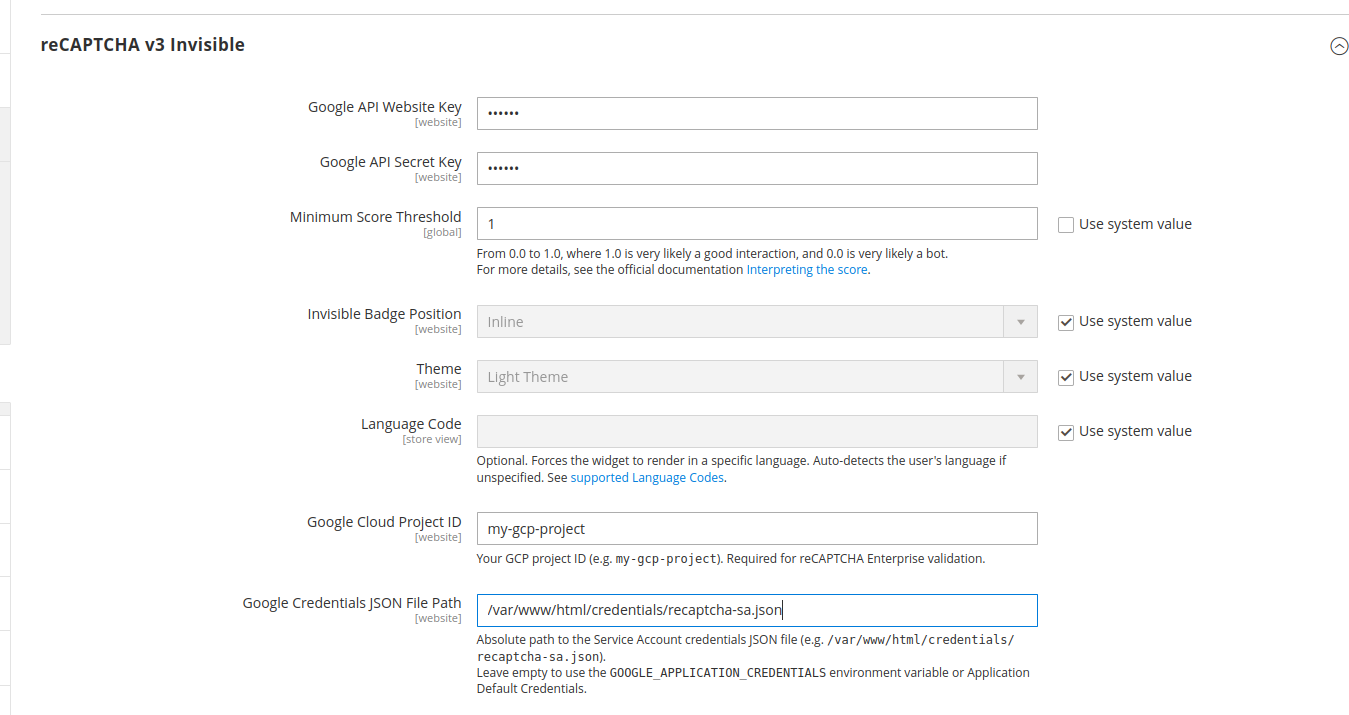
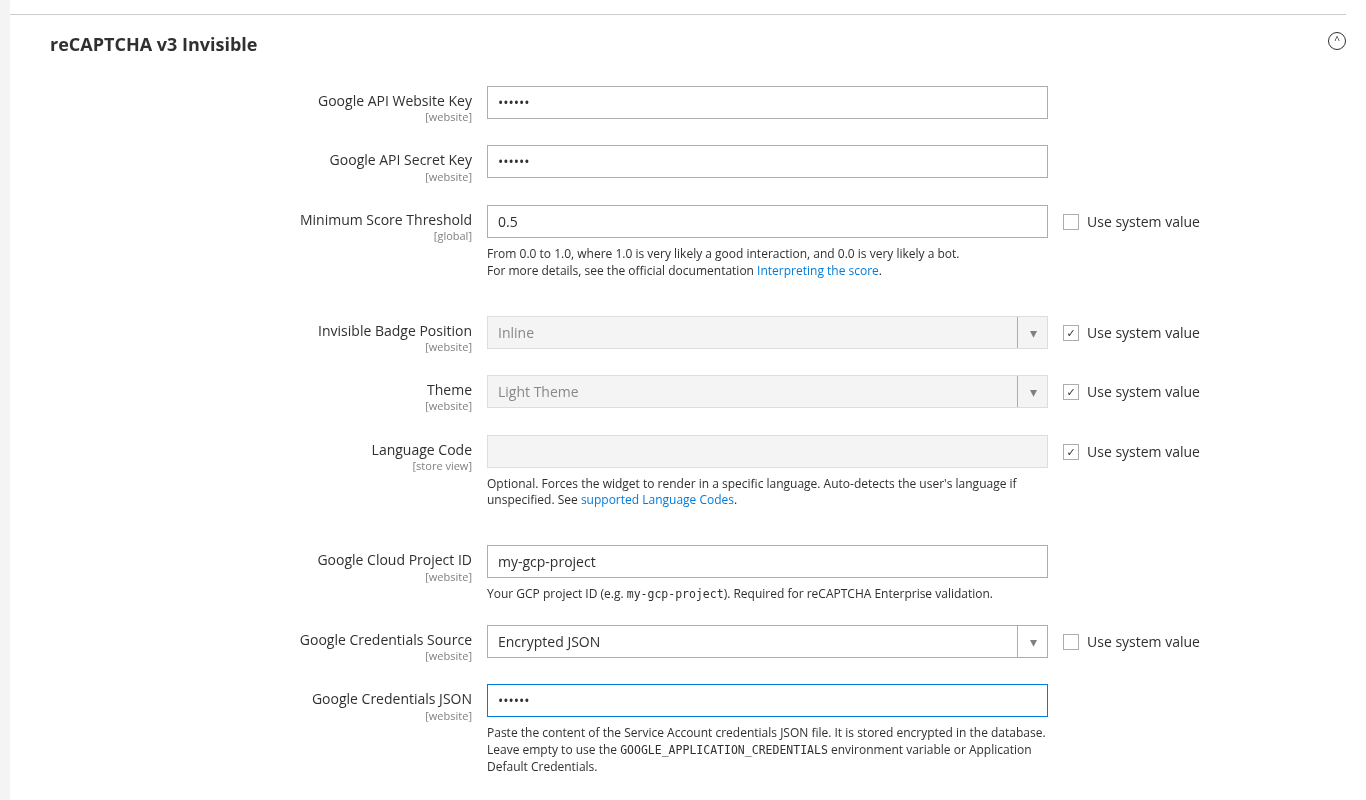
Version 1.1.0 add encrypted JSON credentials source
- Add "Google Credentials Source" setting: file path on server (default) or encrypted JSON
- Store the Service Account JSON encrypted in the database, validated on save and flagged as sensitive
- Replace EnterpriseConfig::getCredentialsFile() with getCredentials()
- Add magento/module-config dependency, CHANGELOG and updated docs

diff --git a/Model/Config/EnterpriseConfig.php b/Model/Config/EnterpriseConfig.php
@@ -4,17 +4,22 @@ declare(strict_types=1);
 
 namespace Lohoy\ReCaptchaEnterprise\Model\Config;
 
+use Lohoy\ReCaptchaEnterprise\Model\Config\Source\CredentialsSource;
 use Magento\Framework\App\Config\ScopeConfigInterface;
+use Magento\Framework\Encryption\EncryptorInterface;
 use Magento\Store\Model\ScopeInterface;
 
 class EnterpriseConfig
 {
     private const XML_PATH_PROJECT_ID        = 'recaptcha_frontend/type_recaptcha_v3/google_project_id';
+    private const XML_PATH_CREDENTIALS_SOURCE = 'recaptcha_frontend/type_recaptcha_v3/google_credentials_source';
     private const XML_PATH_CREDENTIALS_FILE  = 'recaptcha_frontend/type_recaptcha_v3/google_credentials_file';
+    private const XML_PATH_CREDENTIALS_JSON  = 'recaptcha_frontend/type_recaptcha_v3/google_credentials_json';
     private const XML_PATH_PUBLIC_KEY        = 'recaptcha_frontend/type_recaptcha_v3/public_key';
 
     public function __construct(
-        private readonly ScopeConfigInterface $scopeConfig
+        private readonly ScopeConfigInterface $scopeConfig,
+        private readonly EncryptorInterface   $encryptor
     ) {}
 
     /**
@@ -28,17 +33,28 @@ class EnterpriseConfig
     }
 
     /**
-     * Returns the path to the GCP credentials JSON file.
+     * Returns the GCP credentials: decoded JSON array, or path to the JSON file.
      * Falls back to the GOOGLE_APPLICATION_CREDENTIALS env var if empty.
+     *
+     * @throws \JsonException if the stored JSON cannot be decoded
      */
-    public function getCredentialsFile(): string
+    public function getCredentials(): array|string
     {
-        $configValue = trim(
-            (string) $this->scopeConfig->getValue(self::XML_PATH_CREDENTIALS_FILE, ScopeInterface::SCOPE_WEBSITE)
-        );
+        $source = $this->scopeConfig->getValue(self::XML_PATH_CREDENTIALS_SOURCE, ScopeInterface::SCOPE_WEBSITE);
 
-        if ($configValue !== '') {
-            return $configValue;
+        if ($source === CredentialsSource::JSON) {
+            $encrypted = (string) $this->scopeConfig->getValue(self::XML_PATH_CREDENTIALS_JSON, ScopeInterface::SCOPE_WEBSITE);
+            $json = trim($this->encryptor->decrypt($encrypted));
+            if ($json !== '') {
+                return json_decode($json, true, 512, JSON_THROW_ON_ERROR);
+            }
+        } else {
+            $configValue = trim(
+                (string) $this->scopeConfig->getValue(self::XML_PATH_CREDENTIALS_FILE, ScopeInterface::SCOPE_WEBSITE)
+            );
+            if ($configValue !== '') {
+                return $configValue;
+            }
         }
 
         return (string) (getenv('GOOGLE_APPLICATION_CREDENTIALS') ?: '');

diff --git a/Model/Config/Backend/CredentialsJson.php b/Model/Config/Backend/CredentialsJson.php
@@ -1,0 +1,26 @@
+<?php
+
+declare(strict_types=1);
+
+namespace Lohoy\ReCaptchaEnterprise\Model\Config\Backend;
+
+use Magento\Config\Model\Config\Backend\Encrypted;
+use Magento\Framework\Exception\LocalizedException;
+
+/**
+ * Stores the Service Account JSON encrypted, rejecting invalid JSON so a typo can't break every protected form.
+ */
+class CredentialsJson extends Encrypted
+{
+    public function beforeSave()
+    {
+        $value = trim((string) $this->getValue());
+
+        // '******' is the obscured placeholder: the stored value is kept as is
+        if ($value !== '' && !preg_match('/^\*+$/', $value) && !is_array(json_decode($value, true))) {
+            throw new LocalizedException(__('Google Credentials JSON is not a valid JSON document.'));
+        }
+
+        return parent::beforeSave();
+    }
+}

diff --git a/Model/EnterpriseValidator.php b/Model/EnterpriseValidator.php
@@ -47,13 +47,13 @@ class EnterpriseValidator implements ValidatorInterface
             ]);
         }
 
-        $clientOptions = [];
-        $credentialsFile = $this->enterpriseConfig->getCredentialsFile();
-        if ($credentialsFile !== '') {
-            $clientOptions['credentials'] = $credentialsFile;
-        }
-
         try {
+            $clientOptions = [];
+            $credentials = $this->enterpriseConfig->getCredentials();
+            if ($credentials !== '') {
+                $clientOptions['credentials'] = $credentials;
+            }
+
             $client = new RecaptchaEnterpriseServiceClient($clientOptions);
         } catch (\Exception $e) {
             $this->logger->critical('[RecaptchaEnterprise] Failed to create client: ' . $e->getMessage());

diff --git a/Model/Config/Source/CredentialsSource.php b/Model/Config/Source/CredentialsSource.php
@@ -1,0 +1,21 @@
+<?php
+
+declare(strict_types=1);
+
+namespace Lohoy\ReCaptchaEnterprise\Model\Config\Source;
+
+use Magento\Framework\Data\OptionSourceInterface;
+
+class CredentialsSource implements OptionSourceInterface
+{
+    public const PATH   = 'path';
+    public const JSON   = 'json';
+
+    public function toOptionArray(): array
+    {
+        return [
+            ['value' => self::PATH, 'label' => __('File path on server')],
+            ['value' => self::JSON, 'label' => __('Encrypted JSON')],
+        ];
+    }
+}

diff --git a/README.md b/README.md
@@ -28,6 +28,14 @@ To configure the module from the Magento Admin:
 2. Expand the **reCAPTCHA v3 Invisible** section.
 3. Provide the credentials specific to your Google Cloud Enterprise project:
    * **Google Cloud Project ID**: Your Google Cloud project ID.
-   * **Google Credentials JSON File Path**: Absolute path to the Service Account credentials JSON file (e.g., `/var/www/html/magento/credentials.json`). Leave empty to use the `GOOGLE_APPLICATION_CREDENTIALS` environment variable or Application Default Credentials.
+   * **Google Credentials Source**: How the Service Account credentials JSON file is provided:
+     * **File path on server** (default): fill **Google Credentials JSON File Path** with the absolute path to the file (e.g., `/var/www/html/magento/credentials.json`).
+     * **Encrypted JSON**: paste the content of the JSON file in **Google Credentials JSON**. It is stored encrypted in the database (with the Magento crypt key), so no file has to exist on the server. It is flagged as sensitive, so it is never exported by `bin/magento app:config:dump`, and it can be set from the CLI:
+       ```bash
+       bin/magento config:set recaptcha_frontend/type_recaptcha_v3/google_credentials_source json
+       bin/magento config:sensitive:set recaptcha_frontend/type_recaptcha_v3/google_credentials_json "$(cat credentials.json)"
+       ```
+
+   Leave the path or JSON empty to use the `GOOGLE_APPLICATION_CREDENTIALS` environment variable or Application Default Credentials.
 
 ![Magento Admin Configuration Screenshot](docs/config.png)

diff --git a/CHANGELOG.md b/CHANGELOG.md
@@ -1,0 +1,24 @@
+# Changelog
+
+All notable changes to this project are documented in this file.
+The format is based on [Keep a Changelog](https://keepachangelog.com/en/1.1.0/), and this project adheres to [Semantic Versioning](https://semver.org/).
+
+## [1.1.0] - 2026-10-23
+
+### Added
+- **Google Credentials Source** setting to choose between a file path on the server and an encrypted JSON.
+- **Google Credentials JSON** setting: the Service Account JSON content is pasted in the admin and stored encrypted in the database (no file needed on the server). JSON is validated on save and the setting is flagged as sensitive (excluded from `app:config:dump`).
+
+### Changed
+- Added `magento/module-config` dependency.
+- `EnterpriseConfig::getCredentialsFile()` replaced by `EnterpriseConfig::getCredentials()`, which returns either the file path or the decoded JSON array.
+
+### Upgrade notes
+- Backward compatible: the source defaults to **File path on server**, so an existing path setting keeps working without any change.
+
+## [1.0.0] - 2026-04-17
+
+### Added
+- reCAPTCHA v3 token validation through the Google Cloud reCAPTCHA Enterprise API.
+- Google Cloud Project ID and credentials JSON file path settings, with fallback to `GOOGLE_APPLICATION_CREDENTIALS` / Application Default Credentials.
+- Dedicated log file `var/log/lohoy_recaptcha_enterprise.log`.
